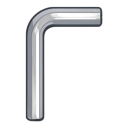
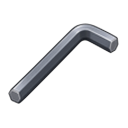
Иконки: шестигранник, кисть и ведро перерисованы Codex (обрезанные края, дефект вырезки); мультиметр и спицевой ключ — старые по решению владельца; выложено (Pages 42e150c7)

Changed region(s): [[0.0625, 0.0312, 0.9375, 0.9688]]

diff --git a/AGENTS.md b/AGENTS.md
@@ -485,6 +485,15 @@ python i18n_work/build_lang.py       # перевод полон
 ## Журнал изменений
 Формат: `ГГГГ-ММ-ДД — агент/модель — что сделано (файлы)`. Новые записи — **сверху**.
 
+- 2026-10-24 — Claude (Fable 5.1) — **иконки инструментов: обрезанные перерисованы Codex** (`art_tests/codex_icons2/BRIEF.md`,
+  `BRIEF2.md`; владелец заметил «вырезанные» иконки). Осмотрены все 20 (`art_tests/_tool_icons_sheet.png`): срезаны были
+  концы шестигранника, щупы мультиметра, низ спицевого ключа; кисть кривая, у ведра дефект вырезки (прозрачная стенка).
+  Решение владельца: **поставлены** новые `tool_allen.png`, `tool_brush.png`, `tool_bucket.png`; мультиметр и спицевой ключ
+  оставлены старые (варианты Codex — `*_codex_rejected.png` в папке). Новые иконки Codex рисует мельче — при установке предмет
+  вписан в 112 px из 128 по bbox, как у остальных. Старые — `art_tests/retired/tool_*_before_codex_2410b.png`. asset_check,
+  selftest — OK; **выложено** (Pages 42e150c7, web_smoke 20/0). Третья партия (манометр, заплатки, отвёртка, разводной и
+  торцевой ключи — BRIEF3.md) заказана по просьбе владельца. (assets/tool_allen.png, tool_brush.png, tool_bucket.png,
+  art_tests/codex_icons2/, AGENTS.md)
 - 2026-10-24 — Claude (Fable 5.1) — **exe пересобран** (`dist/WheelsAndBones.exe`, те же опции, что в build_exe.bat; прежний был
   от 18.10). Размер 64 → 129 МБ: в `assets/` теперь кадры поворота всех колясок (jpg + маски), полные и LOD-модели, новые
   портреты; PyInstaller кладёт весь `assets/` целиком (в отличие от build_web, который кадры и тела не пакует). Проверено:
